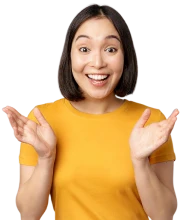
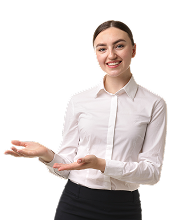
Merge pull request #148 from pantherahub/feature/update-home-img
Update home img

Pull request: Update home img
Se actualiza imagen del home.
Task: https://app.clickup.com/t/9011508631/868jzmdrt

diff --git a/src/app/modules/private/home/home.component.html b/src/app/modules/private/home/home.component.html
@@ -4,13 +4,6 @@
   <div class="max-w-screen-xl w-full pt-10 pb-32 sm:pb-20 md:pt-6 flex flex-col gap-9">
     <div class="rounded-xl bg-blue2h-100">
       <div class="w-full max-w-[821px] mx-auto flex">
-        <div class="hidden md:block px-4 pt-4 flex-shrink-0">
-          <img
-            src="assets/img/home/welcome.webp"
-            alt="Imagen decorativa"
-            width="183" height="220"
-          />
-        </div>
 
         <div class="flex flex-col justify-center gap-4 p-4 md:ps-0">
           <div class="flex flex-col gap-2 text-xl">
@@ -32,6 +25,15 @@
             </div>
           </div>
         </div>
+
+        <div class="hidden md:block px-4 pt-4 flex-shrink-0">
+          <img
+            src="assets/img/home/welcome.webp"
+            alt="Imagen decorativa"
+            height="220"
+          />
+        </div>
+
       </div>
     </div>
 